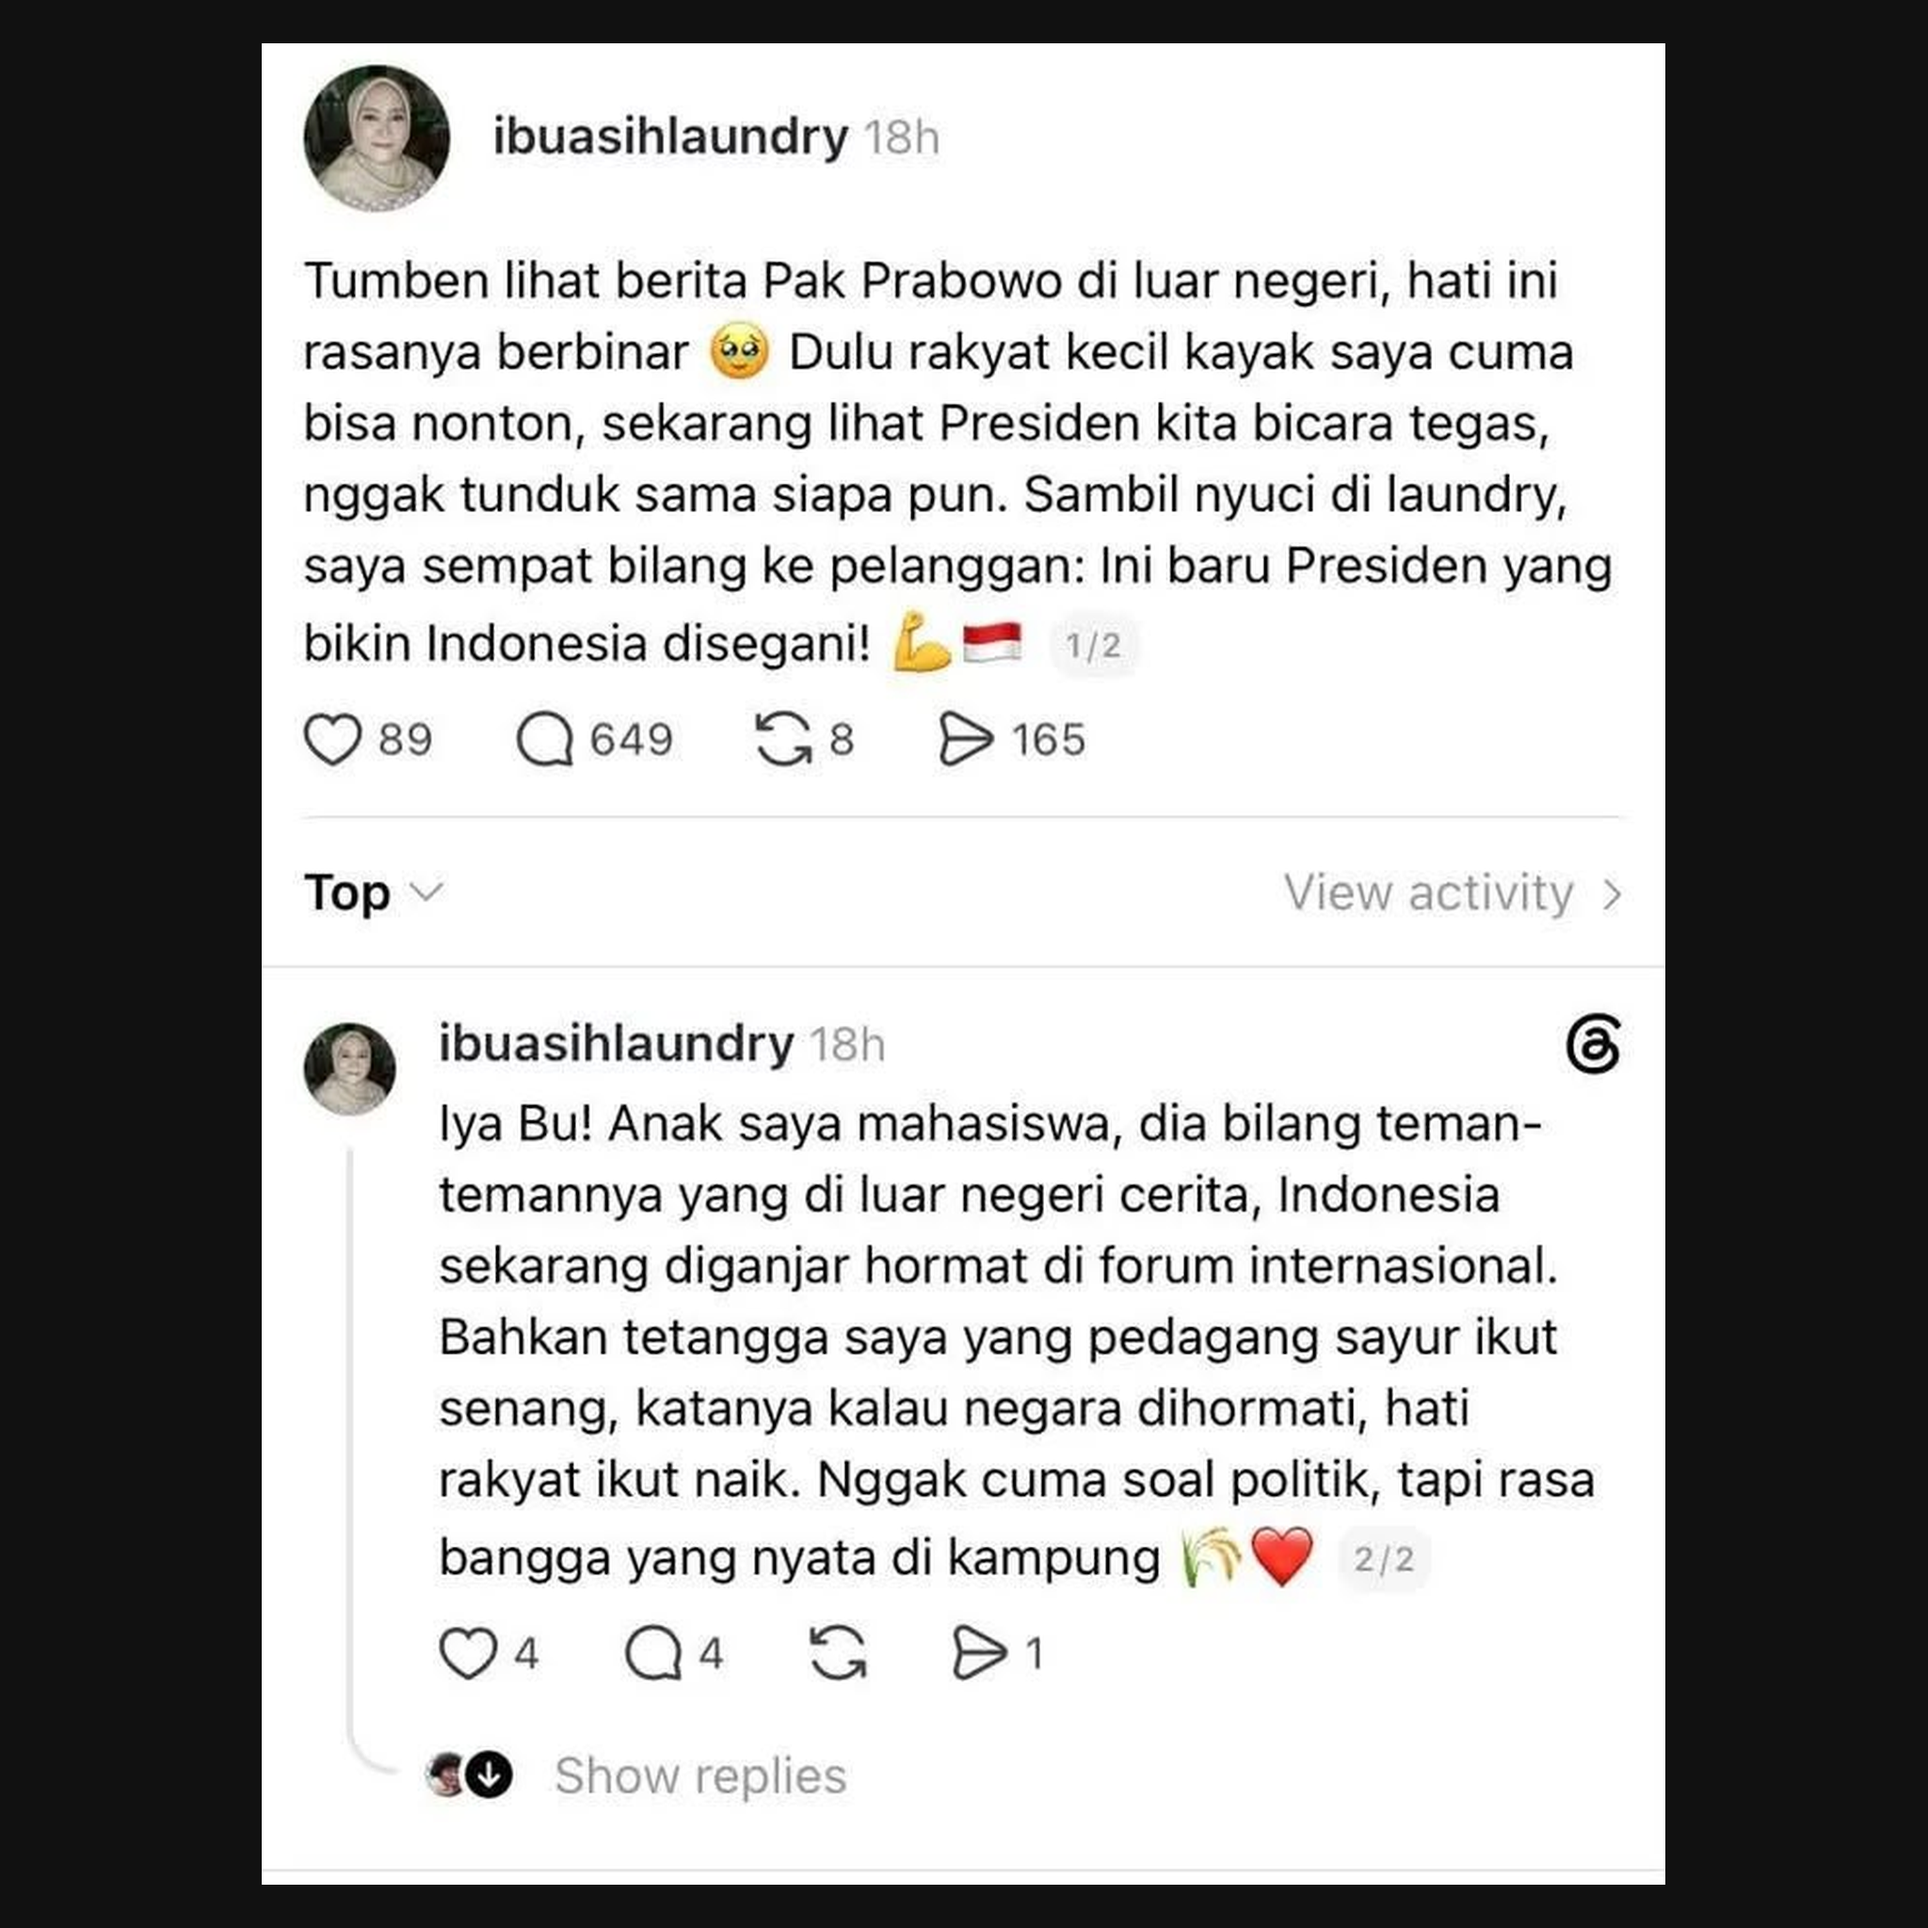
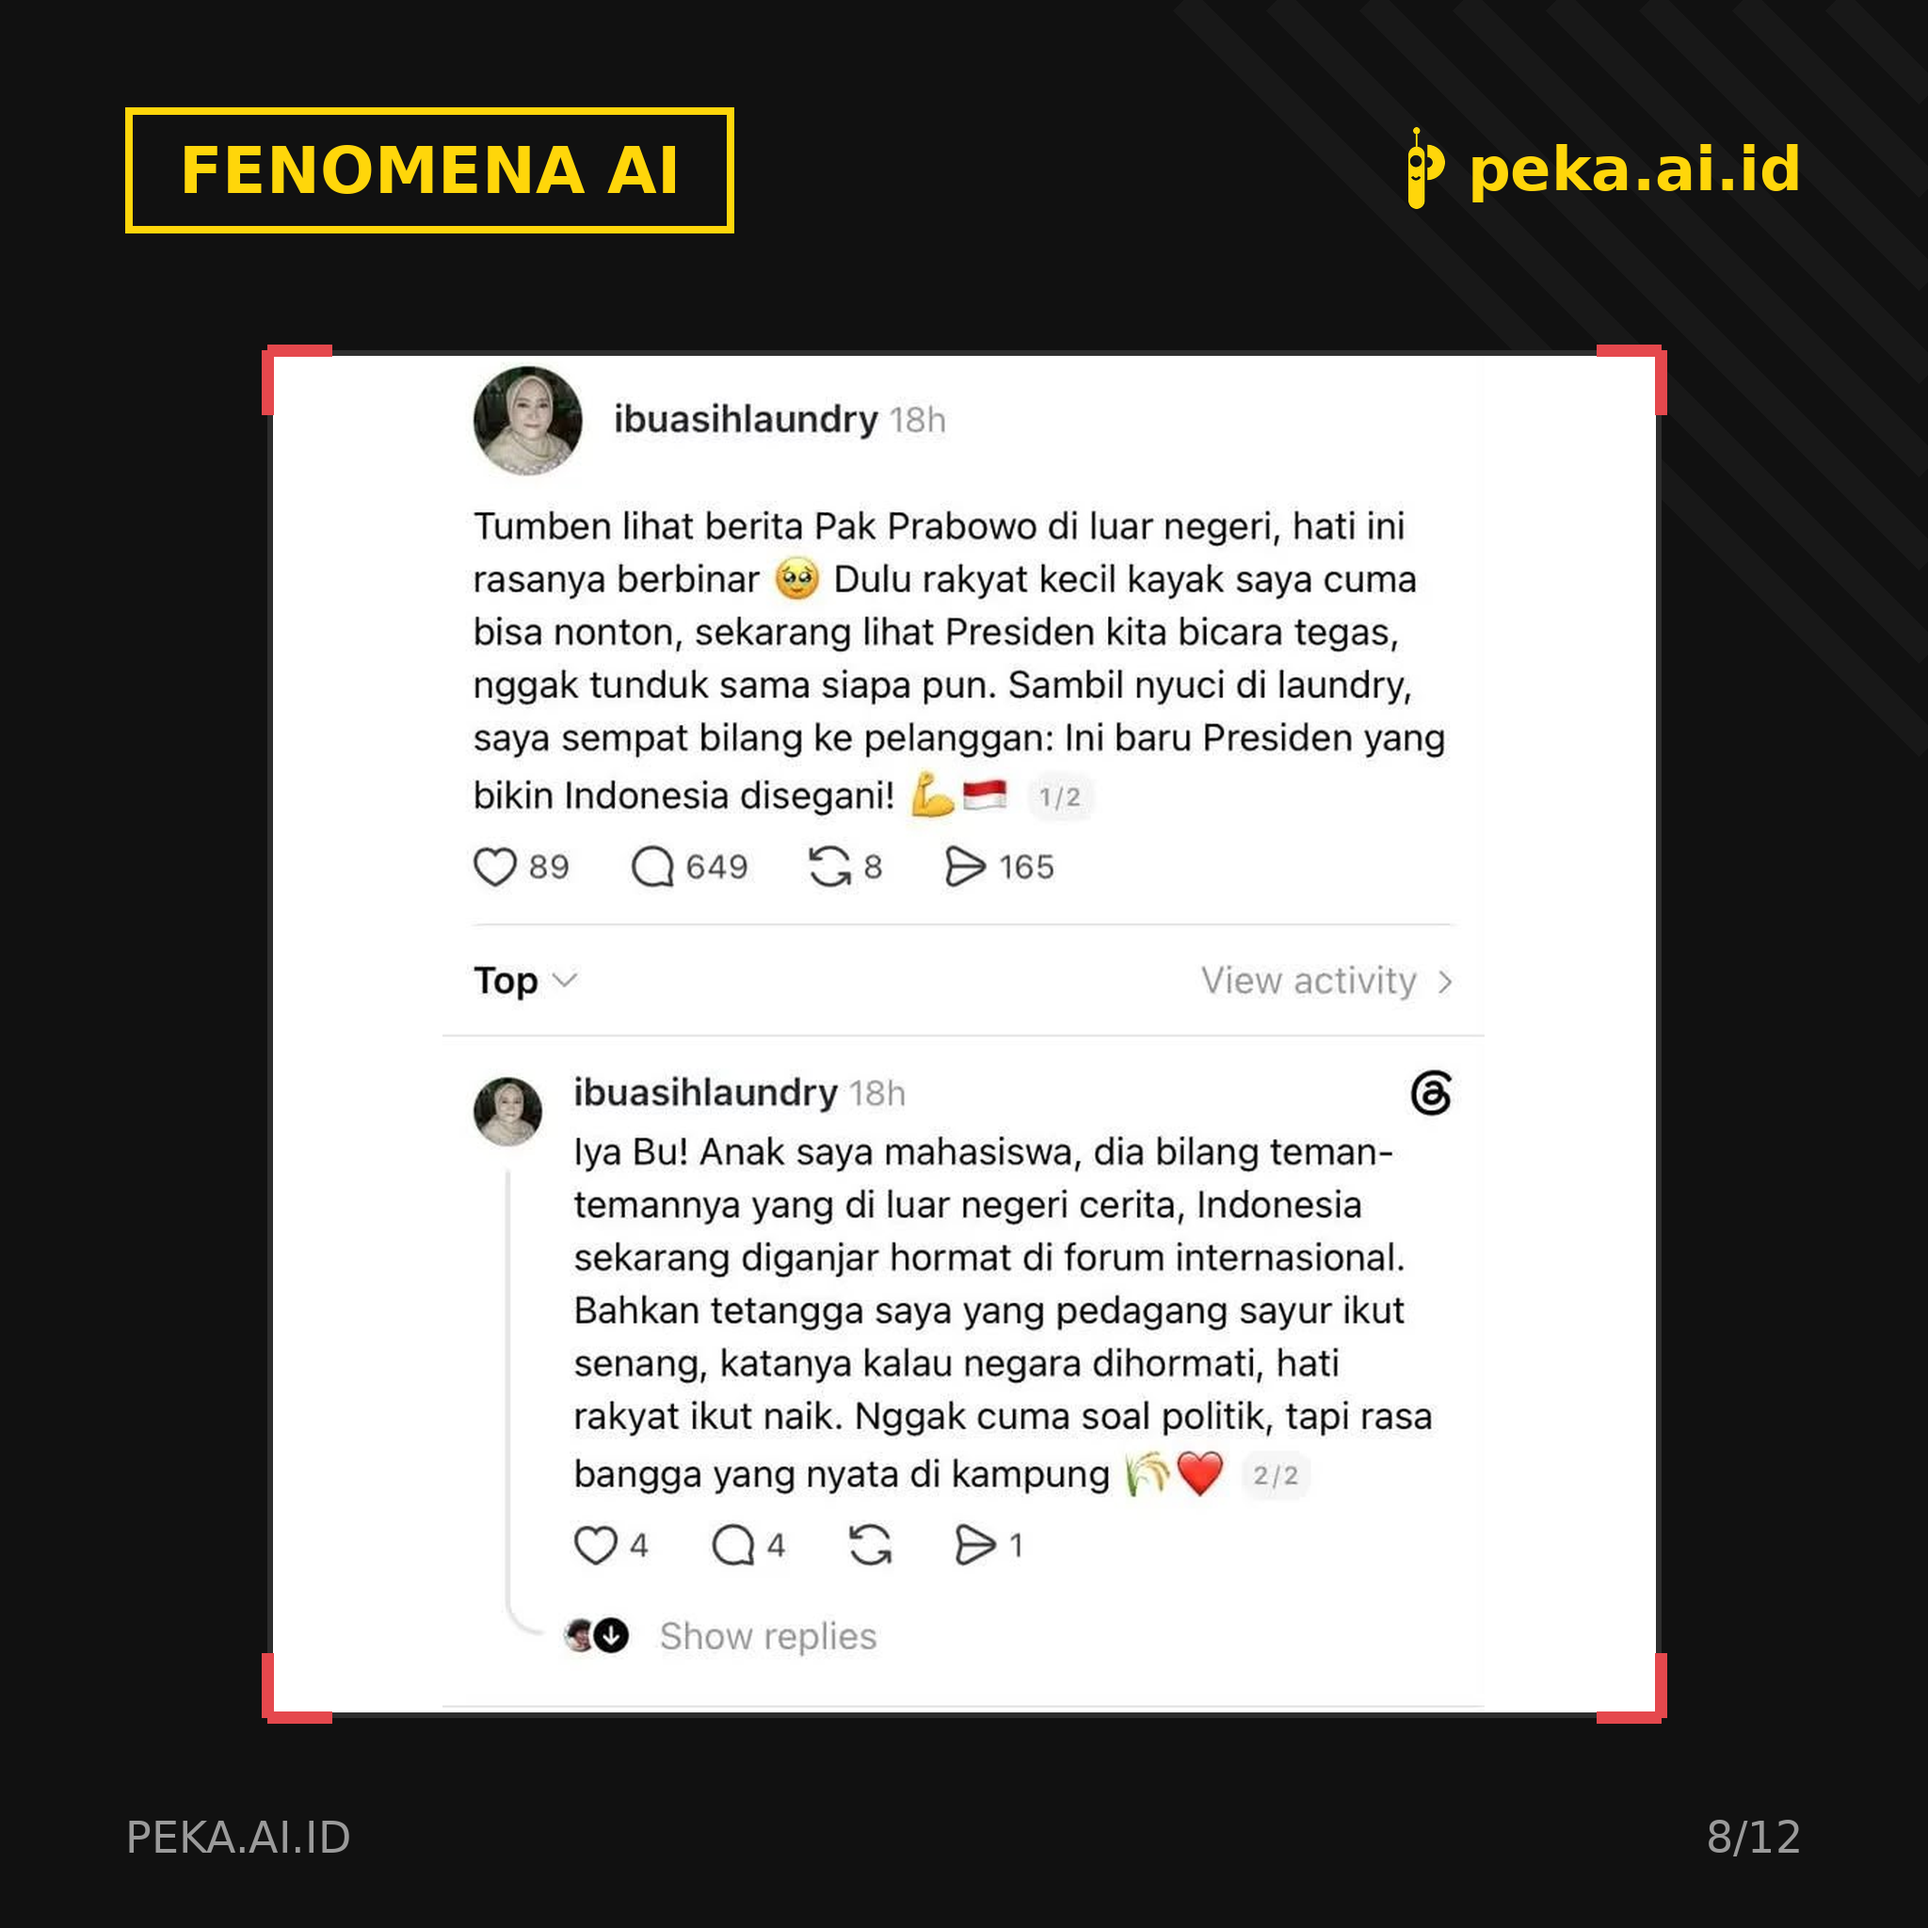
Buzzer special: raw SS slides get the Peka design frame (no caption text)

Changed region(s): [[0.0625, 0.0, 0.9375, 1.0], [0.6562, 0.4375, 0.8125, 0.4688]]

diff --git a/hm/buzzer_design.py b/hm/buzzer_design.py
@@ -143,14 +143,17 @@ def cards_slide(idx, kicker, title, cards, check=False):
     return img
 
 
-def raw_slide(ss_path):
-    """Bare screenshot slide: no text, no header, no footer (user request)."""
+def raw_slide(ss_path, idx):
+    """Screenshot slide with the Peka design frame (header, red bracket
+    frame, page number) but NO caption text (user request)."""
     img = Image.new("RGB", (W, H), BG)
-    d = ImageDraw.Draw(img)
+    d = head(img)
+    box = (X(150), X(196), X(930), X(962))
     vis = D.load_visual(ss_path)
     if vis:
-        D.contain_fit(img, vis, (X(24), X(24), X(1056), X(1056)),
-                      backdrop="#111111")
+        d = D.contain_fit(img, vis, box, backdrop="#ffffff")
+    bracket_frame(d, box)
+    D.footer(d, idx, N)
     return img
 
 
@@ -220,10 +223,10 @@ def main():
             ("Edukasi circle terdekatmu",
              "Kirim postingan ini ke grup keluarga. Yang rentan tertipu biasanya paling jarang dengar soal AI.",),
         ], check=True),
-        raw_slide(SS_VIRAL),
-        raw_slide(SS_ACCUSE),
-        raw_slide(SS_METAAI),
-        raw_slide(SS_IRONY),
+        raw_slide(SS_VIRAL, 8),
+        raw_slide(SS_ACCUSE, 9),
+        raw_slide(SS_METAAI, 10),
+        raw_slide(SS_IRONY, 11),
         closing(),
     ]
     for i, s in enumerate(slides, start=1):
